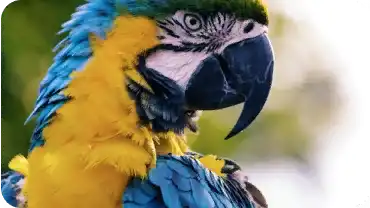
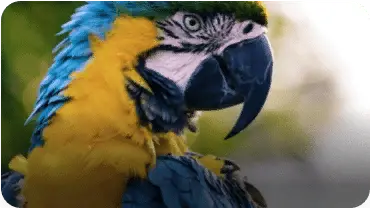
fix: optimized images

diff --git a/css/index-style.css b/css/index-style.css
@@ -987,6 +987,7 @@ h6 {
   background: transparent;
 }
 
+/* ------------- Стили для секции cardvideo ------------- */
 /* ------------- Медиа-запросы ------------- */
 @media (min-width: 992px) and (max-width: 1199.9px) {
   .header-wrapper {

diff --git a/scss/index-style.scss b/scss/index-style.scss
@@ -19,6 +19,8 @@
 @import "_index-technologies.scss";
 //Блок support
 @import "_index-support.scss";
+//Блок cardvideo
+@import "_index-cardvideo.scss";
 //
 //
 //

diff --git a/index.html b/index.html
@@ -356,6 +356,10 @@
                     </div>
                </section>
 
+               <!--Блок cardvideo-->
+
+
+
 
 
 

diff --git a/scss/_index-cardvideo.scss b/scss/_index-cardvideo.scss
@@ -1,0 +1,1 @@
+/* ------------- Стили для секции cardvideo ------------- */
